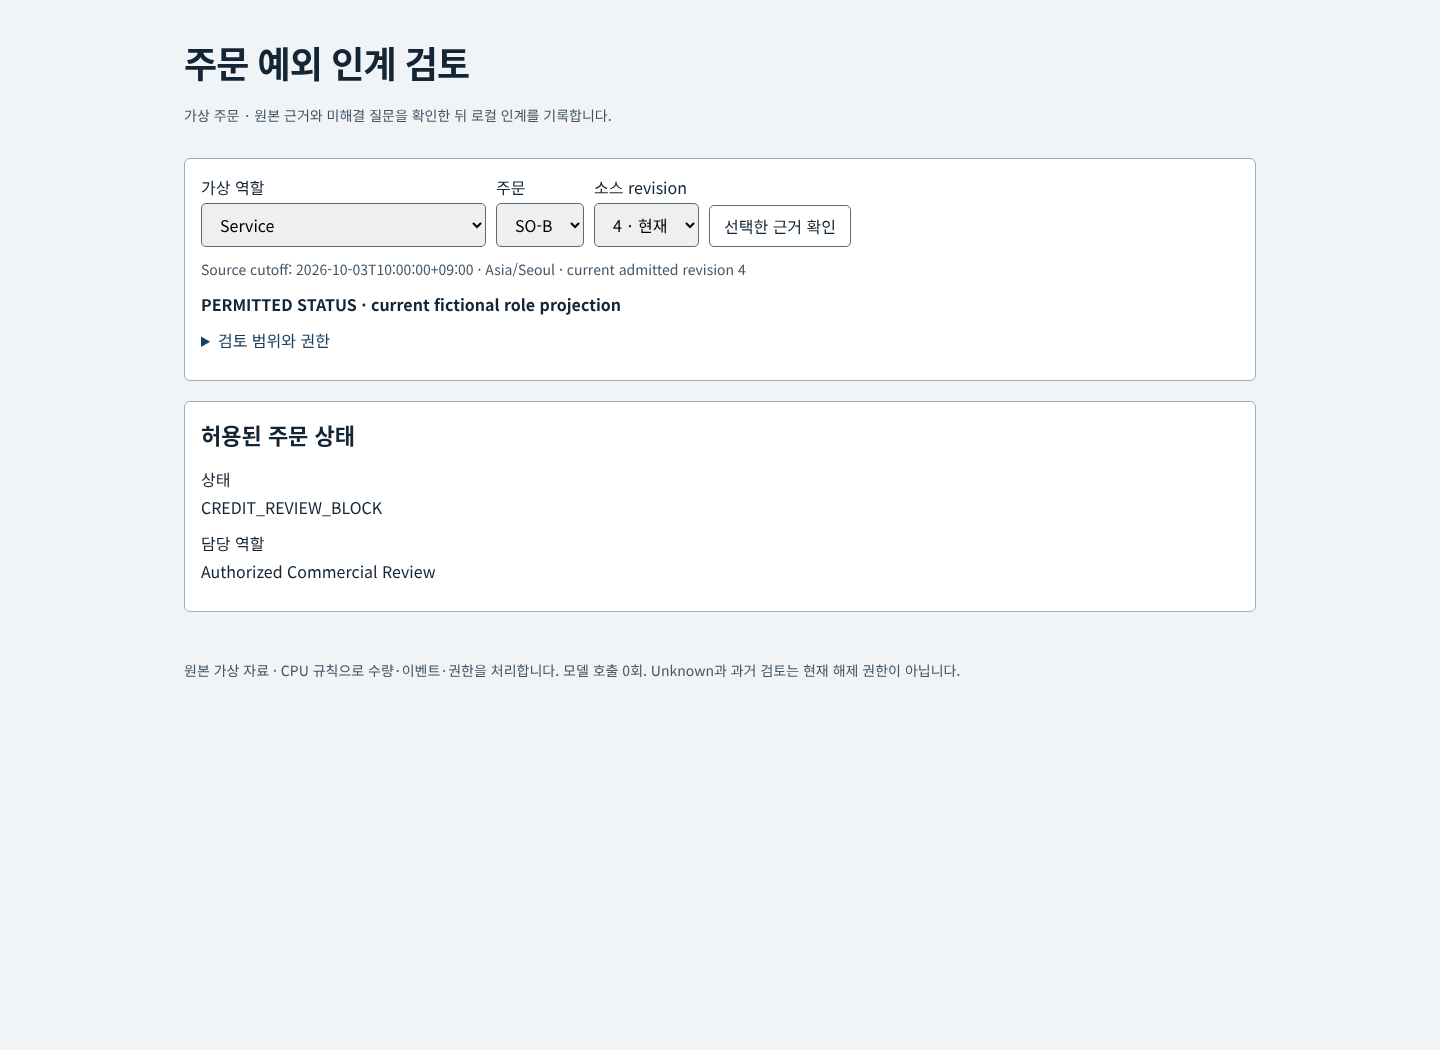
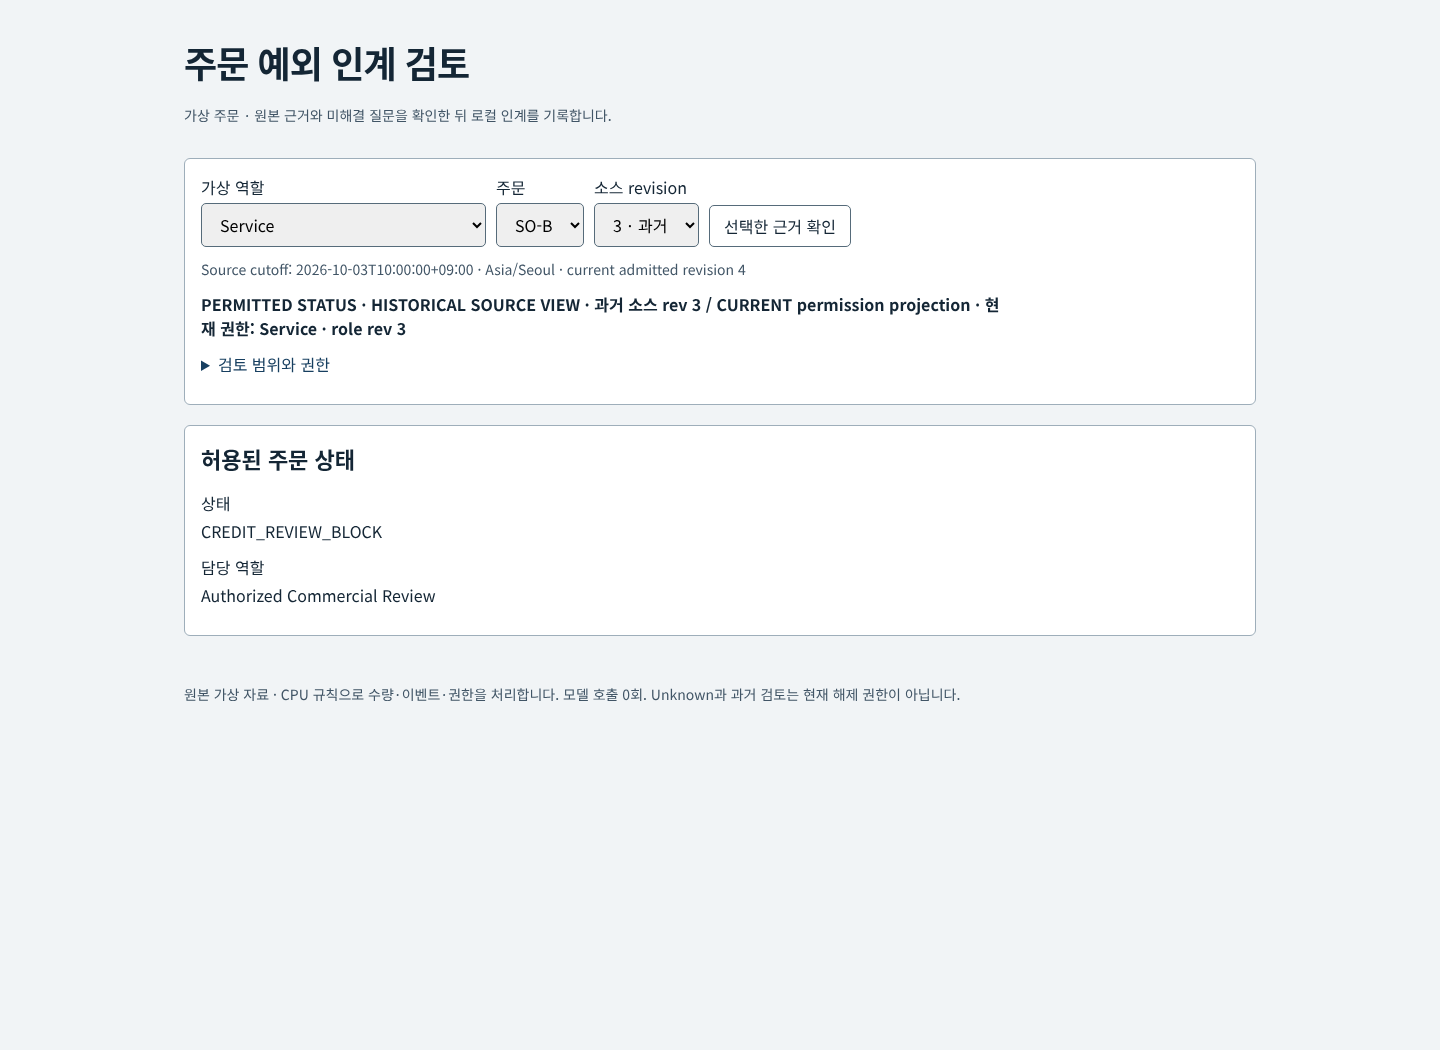
Distinguish historical Service source from current permission projection

diff --git a/scripts/ui-refit-minimal-branch.py b/scripts/ui-refit-minimal-branch.py
@@ -1,0 +1,23 @@
+"""Narrow actual Chrome follow-up for selected source/current permission distinction."""
+import asyncio,json,subprocess,urllib.request,hashlib
+from pathlib import Path
+from playwright.async_api import async_playwright,expect
+ROOT=Path(__file__).resolve().parents[1];URL='http://127.0.0.1:5164'
+async def main():
+ server=subprocess.Popen(['node','ui-server-v2.mjs'],cwd=ROOT,stdout=subprocess.DEVNULL,stderr=subprocess.PIPE);checks=[]
+ def passed(name):checks.append({'name':name,'passed':True})
+ try:
+  for _ in range(80):
+   try:urllib.request.urlopen(URL+'/api/session',timeout=1).close();break
+   except Exception:await asyncio.sleep(.1)
+  async with async_playwright()as p:
+   browser=await p.chromium.launch(executable_path='/usr/bin/google-chrome',args=['--no-sandbox','--disable-gpu']);page=await browser.new_page(viewport={'width':1440,'height':1050});errors=[];page.on('pageerror',lambda e:errors.append(str(e)));await page.goto(URL);await expect(page.locator('#status')).to_contain_text('CURRENT');await page.locator('#order').select_option('SO-B');await expect(page.locator('#minimal')).to_be_visible();await expect(page.locator('#status')).to_contain_text('CURRENT SOURCE VIEW');await expect(page.locator('#status')).to_contain_text('rev 4 / CURRENT permission projection');passed('Current minimal branch explicitly labels selected source revision4 and current Service permission')
+   await page.locator('#revision').select_option('3');await expect(page.locator('#status')).to_contain_text('HISTORICAL SOURCE VIEW');await expect(page.locator('#status')).to_contain_text('rev 3 / CURRENT permission projection');await expect(page.locator('#status')).to_contain_text('Service');passed('Historical minimal branch explicitly separates selected source revision3 from current Service permission')
+   data=await page.evaluate("async()=>await(await fetch('/api/order?order=SO-B&revision=3')).json()");assert sorted(data)==['owner_role','status'];passed('Historical SO-B Service API remains exactly status/owner_role without added revision or role metadata')
+   await page.locator('#role').select_option('Authorized Commercial Review');await expect(page.locator('#notes')).to_contain_text('Fictional commercial-only');await page.locator('#notes button').click();await expect(page.locator('#source-evidence')).to_contain_text('SYNTHETIC-B-CANARY');await page.locator('#role').select_option('Service');await expect(page.locator('#minimal')).to_be_visible();await expect(page.locator('#status')).to_contain_text('HISTORICAL SOURCE VIEW');assert await page.locator('#desk').is_hidden();assert 'SYNTHETIC-B-CANARY'not in await page.content();assert 'Fictional commercial-only'not in await page.content();assert await page.locator('#lines tr').count()==0;assert await page.locator('.receipt-row').count()==0;passed('Historical role downgrade still erases restricted source/receipt DOM while retaining honest selected revision')
+   image=ROOT/'docs/ui-refit/08-service-minimal.png';await page.screenshot(path=str(image),full_page=True);assert not errors;passed('No browser errors; actual historical minimal branch screenshot recaptured');await browser.close()
+  record={'path':str(image.relative_to(ROOT)),'sha256':hashlib.sha256(image.read_bytes()).hexdigest(),'bytes':image.stat().st_size,'origin':'actual Chrome historical SO-B Service revision3 screenshot'}
+  evidence={'kind':'Narrow actual Chrome minimal branch follow-up','executed_in_CI':False,'model_calls':0,'checks':checks,'passed':len(checks),'failed':0,'selected_source_revision':3,'permission_projection':'current session Service','api_fields':['status','owner_role'],'media':[record]};(ROOT/'evidence/ui-refit-minimal-branch.json').write_text(json.dumps(evidence,indent=2)+'\n')
+  baseline=ROOT/'evidence/ui-refit-browser-checks.json';data=json.loads(baseline.read_text());data['media']=[record if r['path']==record['path']else r for r in data['media']];data['narrow_followup']='evidence/ui-refit-minimal-branch.json; only screenshot08 recaptured, original21 checks retained';baseline.write_text(json.dumps(data,indent=2,ensure_ascii=False)+'\n');print(json.dumps({'narrow_chrome_checks':len(checks),'recaptured_screenshots':1,'model_calls':0}))
+ finally:server.terminate();server.wait(timeout=5)
+if __name__=='__main__':asyncio.run(main())

diff --git a/scripts/ui-refit-browser.py b/scripts/ui-refit-browser.py
@@ -34,7 +34,7 @@ async def main():
     issued=asyncio.Event();gate=asyncio.Event();delivered=asyncio.Event()
     async def order_delay(route):response=await route.fetch();issued.set();await gate.wait();await route.fulfill(response=response);delivered.set()
     await page.route('**/api/order?*',order_delay,times=1);await page.locator('#refresh').click();await issued.wait();await page.locator('#role').select_option('Service');assert await page.locator('#desk').is_hidden();assert 'SYNTHETIC-B-CANARY'not in await page.content();gate.set();await delivered.wait();await expect(page.locator('#minimal')).to_be_visible();assert await page.locator('#desk').is_hidden();assert 'Fictional commercial-only'not in await page.content();assert await page.locator('#lines tr').count()==0;assert await page.locator('.receipt-row').count()==0;checked('Role downgrade erases visible/hidden source and receipts; delayed old response cannot restore cache')
-    projection=await page.evaluate("async()=>await(await fetch('/api/order?order=SO-B&revision=3')).json()");assert sorted(projection)==['owner_role','status'];checked('Service SO-B serialized historical read returns exactly status/owner_role with no metadata');await shot('08-service-minimal.png')
+    projection=await page.evaluate("async()=>await(await fetch('/api/order?order=SO-B&revision=3')).json()");assert sorted(projection)==['owner_role','status'];checked('Service SO-B serialized historical read returns exactly status/owner_role with no metadata');await page.locator('#revision').select_option('3');await expect(page.locator('#status')).to_contain_text('HISTORICAL SOURCE VIEW');await expect(page.locator('#status')).to_contain_text('rev 3 / CURRENT permission projection');await shot('08-service-minimal.png');await page.locator('#revision').select_option('4');await expect(page.locator('#status')).to_contain_text('CURRENT SOURCE VIEW')
     rejected=await page.evaluate("async b=>{let r=await fetch('/api/review',{method:'POST',headers:{'Content-Type':'application/json'},body:JSON.stringify(b)});return {status:r.status,body:await r.json()}}",stale);assert rejected['status']==409 and rejected['body']['error']=='STALE_REVIEW';checked('Old reviewed payload cannot survive role revision change')
     await page.locator('#role').select_option('Authorized Commercial Review');await page.locator('#order').select_option('SO-A');await expect(page.locator('#heading')).to_contain_text('SO-A');assert await page.locator('#role').input_value()=='Authorized Commercial Review';checked('Serialized rapid role/order selection reconciles desired role before read')
     await page.set_viewport_size({'width':390,'height':844});await shot('09-mobile-390.png');assert await page.evaluate('document.documentElement.scrollWidth<=innerWidth');sizes=await page.locator('table,button,label,pre,.scope').evaluate_all("es=>es.filter(e=>e.getClientRects().length).map(e=>parseFloat(getComputedStyle(e).fontSize))");assert min(sizes)>=14;title=await page.locator('.page-title').bounding_box();assert title['x']+title['width']<=390;assert await page.locator('.page-title').evaluate("e=>e.scrollWidth<=e.clientWidth");checked('390px single-line 28px title, readable controls, scrollable ledger and no page overflow',{'min_font_px':min(sizes),'no_page_overflow':True})

diff --git a/scripts/verify-ui-refit-provenance.py b/scripts/verify-ui-refit-provenance.py
@@ -12,9 +12,16 @@ if '--write' in sys.argv:
  preserved=[r['path'] for r in captured['media']]+['docs/cpu-native-demo.mp4','evidence/ui-refit-browser-checks.json','evidence/browser-checks.json','evidence/demo-transitions.json']
  data={'schema_version':'P14-UI-REFIT-SOURCE-PROVENANCE-1','kind':'Final authored static UI source and unchanged existing browser/media evidence','ui_source_commit':'ce77096ea9bab7534843c55c1c4fd01a1147f309','model_calls':0,'browser_or_media_regenerated':False,'current_ui_source':[record(p)for p in UI],'original_backend_contract':record('evidence/cpu-contract-freeze.json'),'preserved_media_and_evidence':[record(p)for p in preserved]}
  with MANIFEST.open('x')as f:f.write(json.dumps(data,indent=2)+'\n')
+if '--refresh-minimal' in sys.argv:
+ data=json.loads(MANIFEST.read_text());updated={'docs/ui-refit/08-service-minimal.png','evidence/ui-refit-browser-checks.json'}
+ for expected in data['preserved_media_and_evidence']:
+  if expected['path']not in updated:assert record(expected['path'])==expected,expected['path']
+ for expected in data['current_ui_source']:
+  if expected['path']!='ui/v2/app.mjs':assert record(expected['path'])==expected,expected['path']
+ data.pop('ui_source_commit',None);data['source_identity']='SHA-256 and byte counts of final served source; verified from committed checkout in CI';data['current_ui_source']=[record(p)for p in UI];data['browser_or_media_regenerated']=True;data['media_update']='Only screenshot08 recaptured for historical Service branch; other nine screenshots and historical video unchanged';data['preserved_media_and_evidence']=[record(r['path'])for r in data['preserved_media_and_evidence']]+[record('evidence/ui-refit-minimal-branch.json')];MANIFEST.write_text(json.dumps(data,indent=2)+'\n')
 data=json.loads(MANIFEST.read_text())
 assert [r['path']for r in data['current_ui_source']]==UI
-assert data['model_calls']==0 and data['browser_or_media_regenerated']is False
+assert data['model_calls']==0 and isinstance(data['browser_or_media_regenerated'],bool)
 files=data['current_ui_source']+[data['original_backend_contract']]+data['preserved_media_and_evidence']
 for expected in files:assert record(expected['path'])==expected,expected['path']
-print(json.dumps({'current_ui_sources_verified':len(UI),'preserved_media_and_evidence_verified':len(data['preserved_media_and_evidence']),'original_contract_manifest_verified':True,'model_calls':0,'media_regenerated':False}))
+print(json.dumps({'current_ui_sources_verified':len(UI),'preserved_media_and_evidence_verified':len(data['preserved_media_and_evidence']),'original_contract_manifest_verified':True,'model_calls':0,'media_regenerated':data['browser_or_media_regenerated']}))

diff --git a/README.md b/README.md
@@ -17,9 +17,11 @@ The current **UI v2** shows equal source and result panels, a schedule-line ledg
 ![과거 영수증 — 소스 revision과 현재 권한, 미확인 검토 역할을 구분합니다.](docs/ui-refit/05-historical-receipt.png)
 ![반복 검토 — 기존 영수증을 반환하고 차단은 유지합니다.](docs/ui-refit/06-repeated-review.png)
 ![영수증 내보내기 — 준비 상태와 다운로드·외부 반영의 한계를 표시합니다.](docs/ui-refit/07-export-receipt.png)
-![Service 최소 권한 — 허용된 상태와 담당 역할만 표시합니다.](docs/ui-refit/08-service-minimal.png)
+![Service 과거 소스 — revision3과 현재 권한을 구분하고 상태·담당 역할만 표시합니다.](docs/ui-refit/08-service-minimal.png)
 ![390px 화면 — 한 줄 제목과 스크롤 가능한 일정 표를 유지합니다.](docs/ui-refit/09-mobile-390.png)
 ![소스 읽기 실패 — 근거와 영수증을 지우고 기록·내보내기를 비활성화합니다.](docs/ui-refit/10-source-unavailable.png)
+
+[Narrow Service branch follow-up](evidence/ui-refit-minimal-branch.json) records five additional actual local Chrome checks for selected current/historical revision, current permission projection, exact two-field API response and hidden-DOM erasure. Only screenshot08 was recaptured for this follow-up; the other nine current screenshots and historical video were preserved.
 
 [Historical pre-refit CPU browser video](docs/cpu-native-demo.mp4) shows the **original UI**, not current UI v2. It is an actual timestamp-ordered capture of 80 native browser frames at two frames/second (40 seconds, ten inspected stages), encoded with the existing CPU ffmpeg executable. It includes repeated acknowledgment, historical revision, role downgrade and isolated source-read failure. It contains no model demo. [Historical video transitions and exact media hash](evidence/demo-transitions.json). Original [schedule screenshot](docs/schedule-lines.png), [event/review screenshot](docs/event-handoff-review.png), [mobile screenshot](docs/mobile-390.png), [permitted status](docs/permitted-status.png) and [source failure](docs/source-unavailable.png) are also historical pre-refit UI. [Historical 15-check browser record and media hashes](evidence/browser-checks.json).
 
